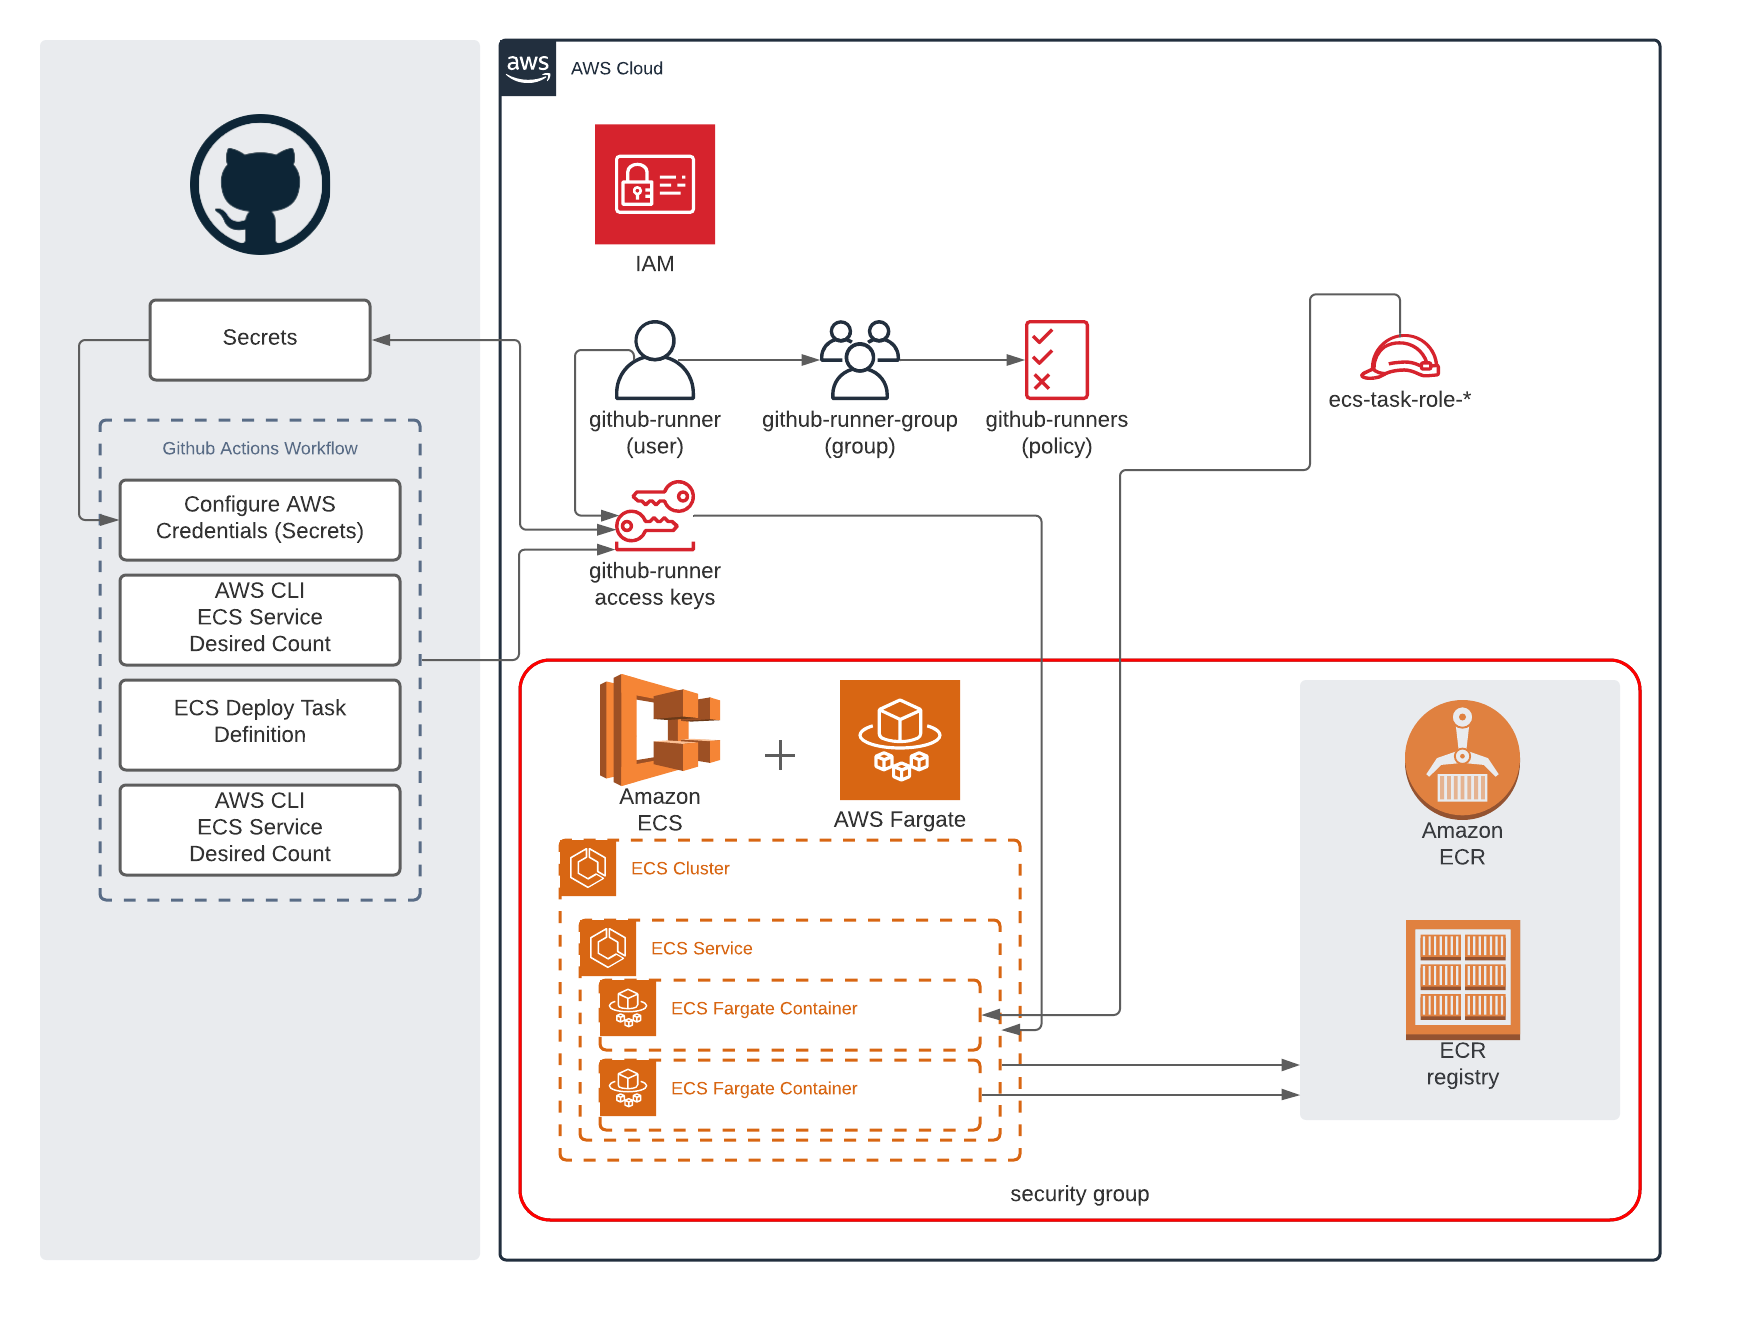
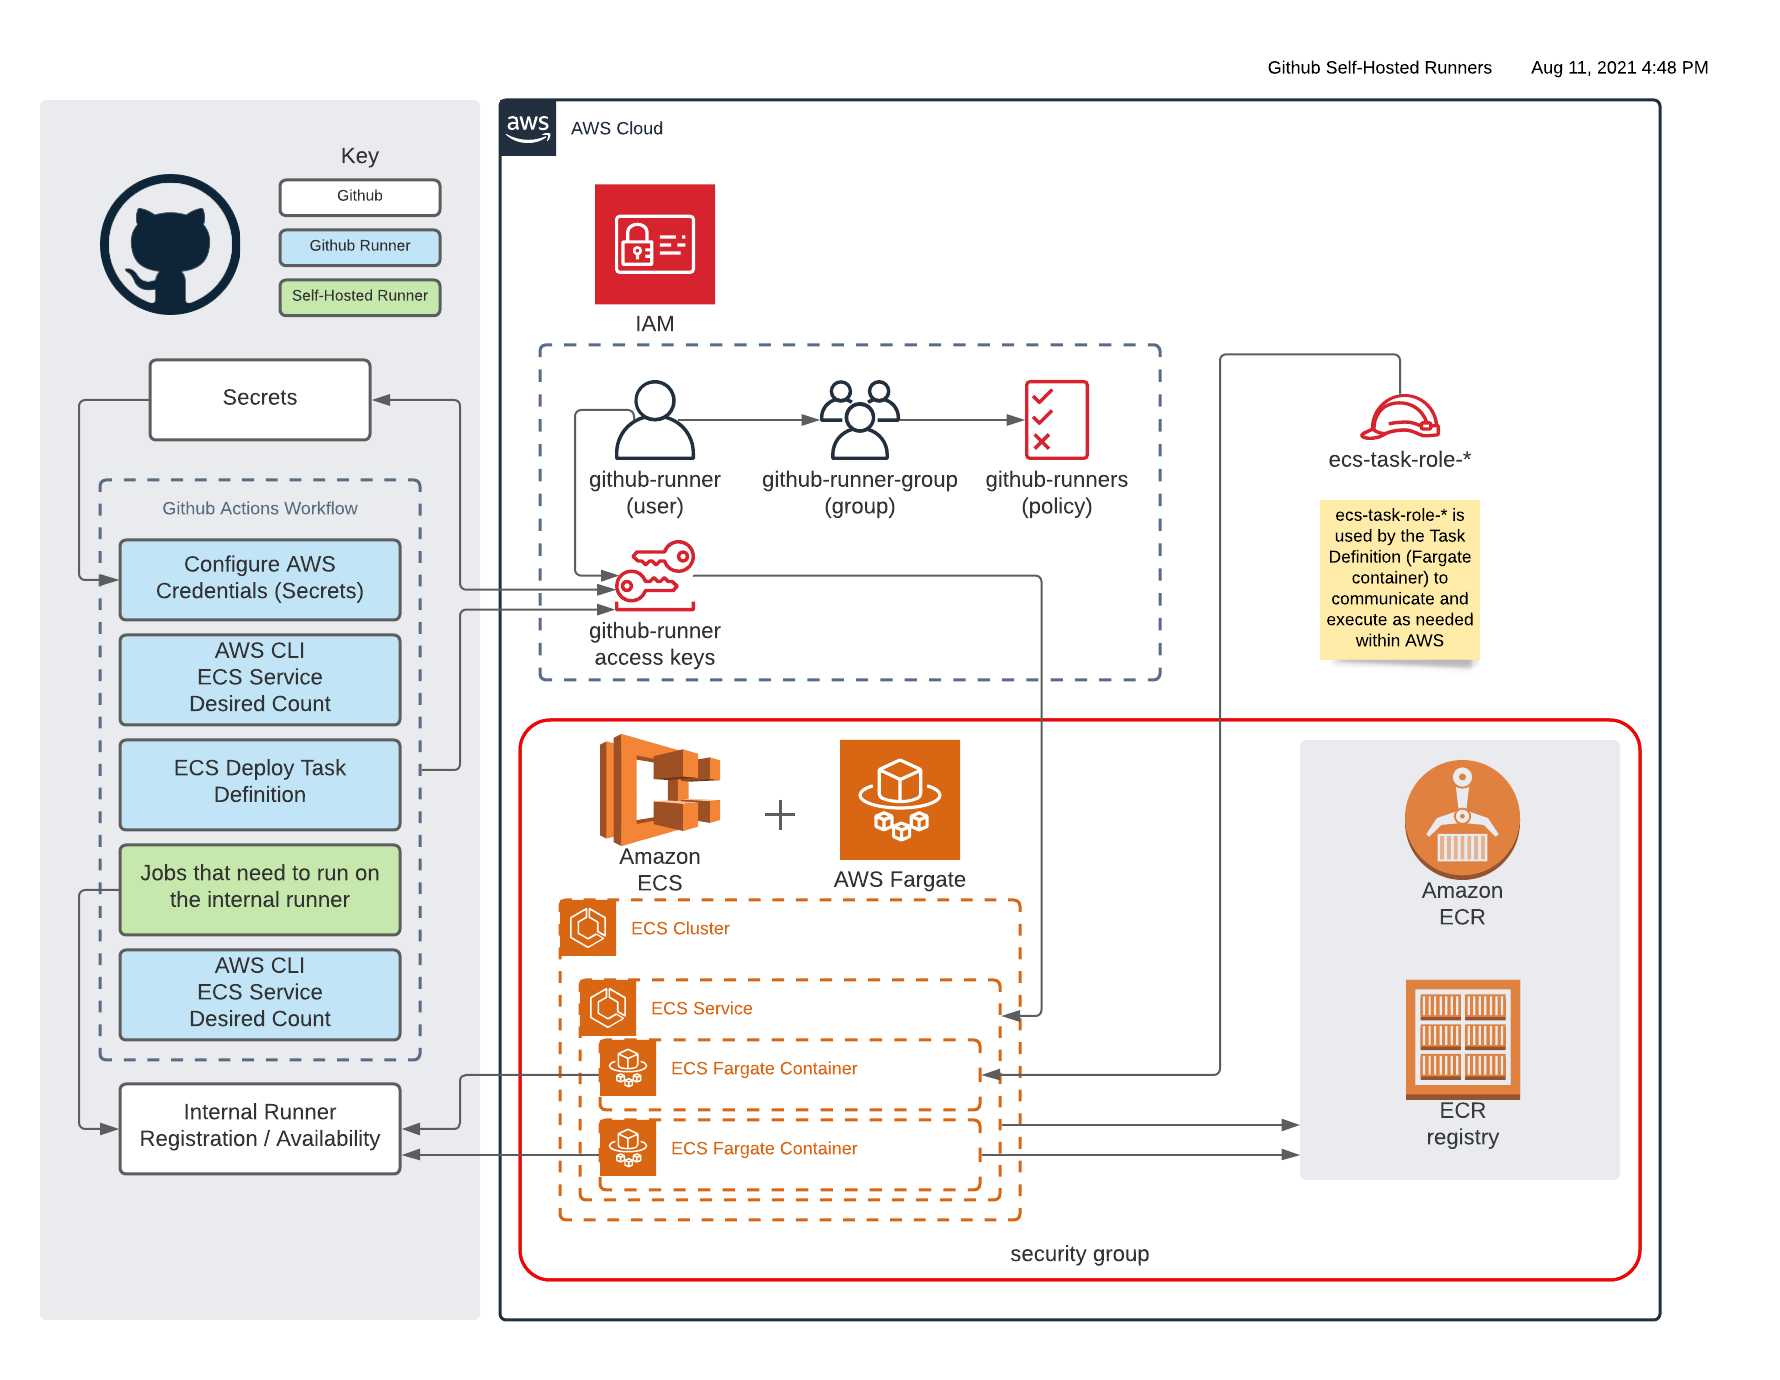
improved docs and updated diagram

Changed region(s): [[0.031, 0.0311, 0.9599, 0.9629], [0.6812, 0.3417, 0.7122, 0.3727], [0.6812, 0.2485, 0.7122, 0.2795]]

diff --git a/README.md b/README.md
@@ -86,11 +86,32 @@ All of the specified resources in the IAM policy do not have to exist prior to t
 }
 ```
 
-## Terraform Deployment
+## Local Usage
 
-Here is an example of how you would use the module in your own terraform deployment:
+1. Clone this repository to your machine.
+2. Ensure your environment variables are populated:
+    * `PERSONAL_ACCESS_TOKEN` - Your github personal access token with repository permissions.
+        * Go to Settings > Developer Settings > Personal Access Token, and click on **Generate new token**
+        ![Where to Generate a New Token](./GitHubPAT.png)
+        * Give your token a note and check the box to give full control of private repositories
+        ![Repository Permissions](./GitHubPAT2.png)
+        * Once generated, be sure to save your token in a secure location such as 1pass or AWS Secrets Manager
+    * `REPO_OWNER` - The name of the repository owner, e.g. `CMSgov`
+    * `REPO_NAME` - The name of the repository
+3. Build and run the image. `./entrypoint.sh` should register the runner with your repository and start listening for jobs.
+4. In one of the workflows in the target repository, change the `runs-on` value to `self-hosted`. This will make the workflow use the registered self-hosted runner to complete its task, after which it will shut down.
 
-```text
+## Terraform Module
+
+This repository contains a Terraform module to deploy an ECR repo, ECS cluster, and ECS service in support of automating deployment of ephemeral self-hosted Github Actions runners within AWS.
+
+This module supports the following features:
+
+*
+
+### Usage
+
+```hcl
 module "github-actions-runner-aws" {
   source = "github.com/cmsgov/github-actions-runner-aws?ref=v1.0.0"
 
@@ -114,17 +135,28 @@ module "github-actions-runner-aws" {
 }
 ```
 
-## Local Usage
+### Optional Parameters
 
-1. Clone this repository to your machine.
-2. Ensure your environment variables are populated:
-    * `PERSONAL_ACCESS_TOKEN` - Your github personal access token with repository permissions.
-        * Go to Settings > Developer Settings > Personal Access Token, and click on **Generate new token**
-        ![Where to Generate a New Token](./GitHubPAT.png)
-        * Give your token a note and check the box to give full control of private repositories
-        ![Repository Permissions](./GitHubPAT2.png)
-        * Once generated, be sure to save your token in a secure location such as 1pass or AWS Secrets Manager
-    * `REPO_OWNER` - The name of the repository owner, e.g. `CMSgov`
-    * `REPO_NAME` - The name of the repository
-3. Build and run the image. `./entrypoint.sh` should register the runner with your repository and start listening for jobs.
-4. In one of the workflows in the target repository, change the `runs-on` value to `self-hosted`. This will make the workflow use the registered self-hosted runner to complete its task, after which it will shut down.
+| Name | Default Value | Description |
+|------|---------|---------|
+| lifecycle_policy | "" | ECR repository lifecycle policy document. Used to override the default policy. |
+| tags | {} | Additional tags to apply |
+| scan_on_push | true | Scan image on push to repo. |
+| ecr_repo_tag | "latest" | The tag to identify and pull the image in ECR repo |
+| ecs_cluster_arn | "" | ECS cluster ARN to use for running this profile |
+| github_repo_owner | "CMSgov" | The name of the Github repo owner. |
+
+### Outputs
+
+None.
+
+### Requirements
+
+| Name | Version |
+|------|---------|
+| terraform | >= 0.13 |
+| aws | >= 3.0 |
+
+### Modules
+
+None.
